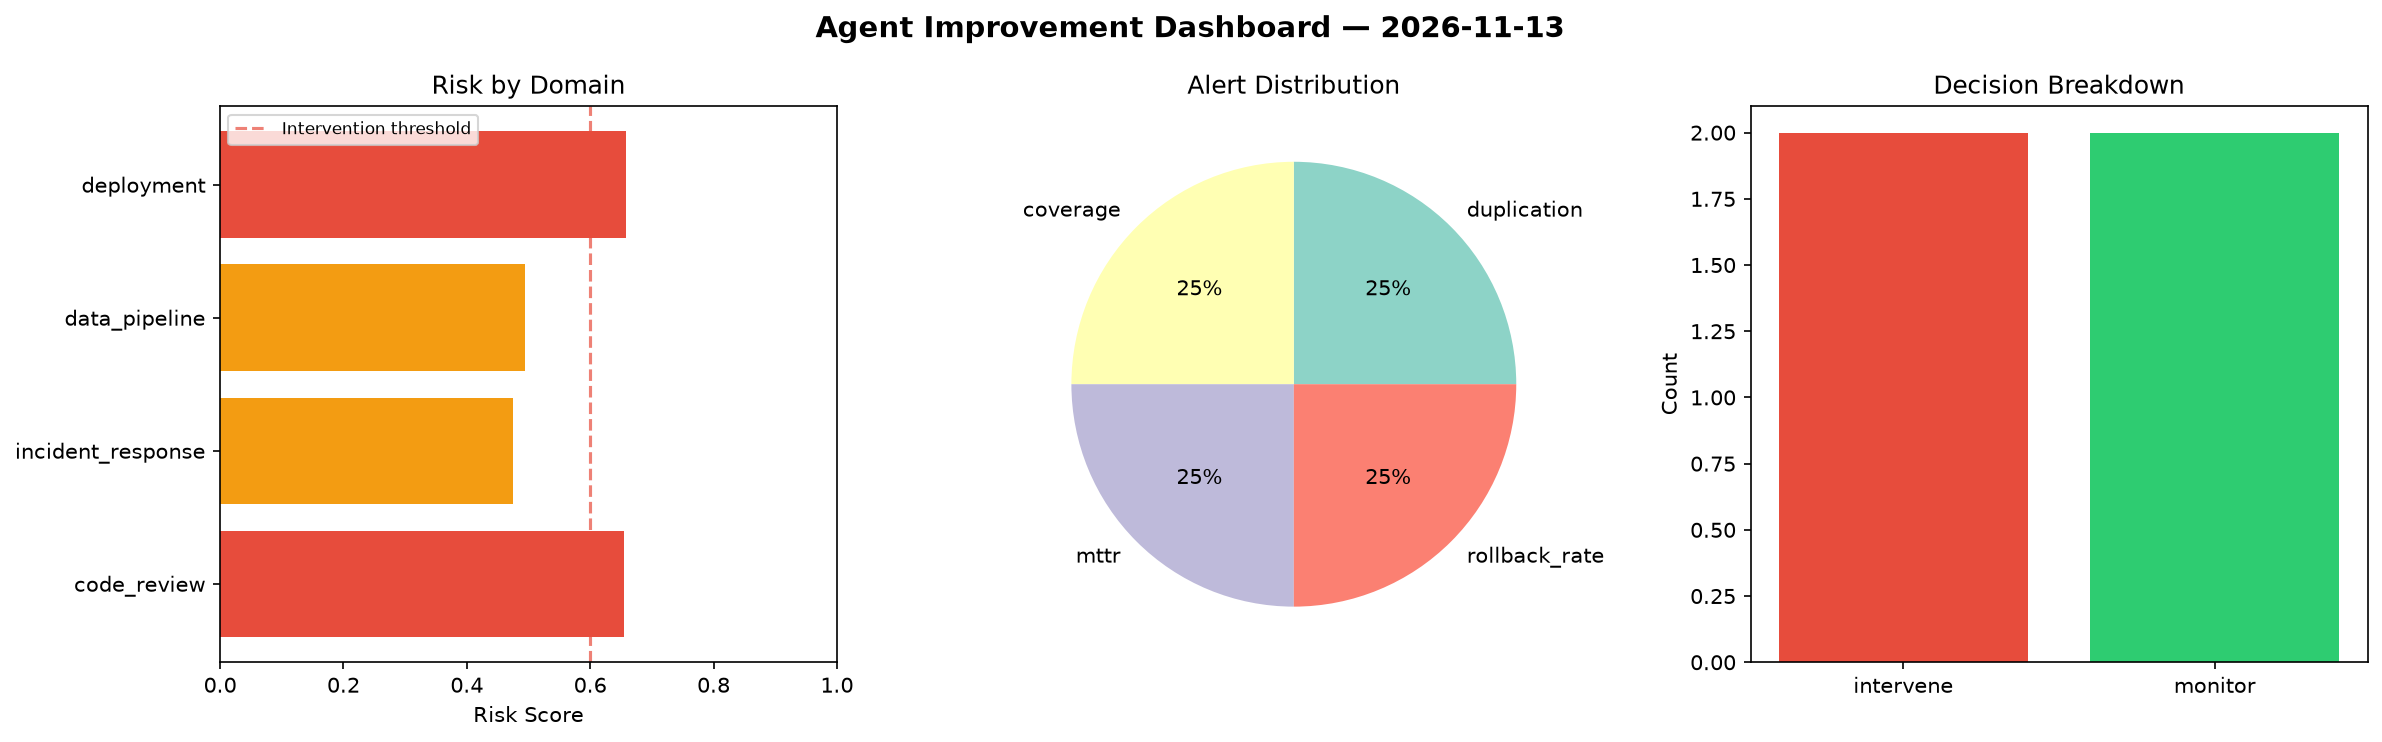
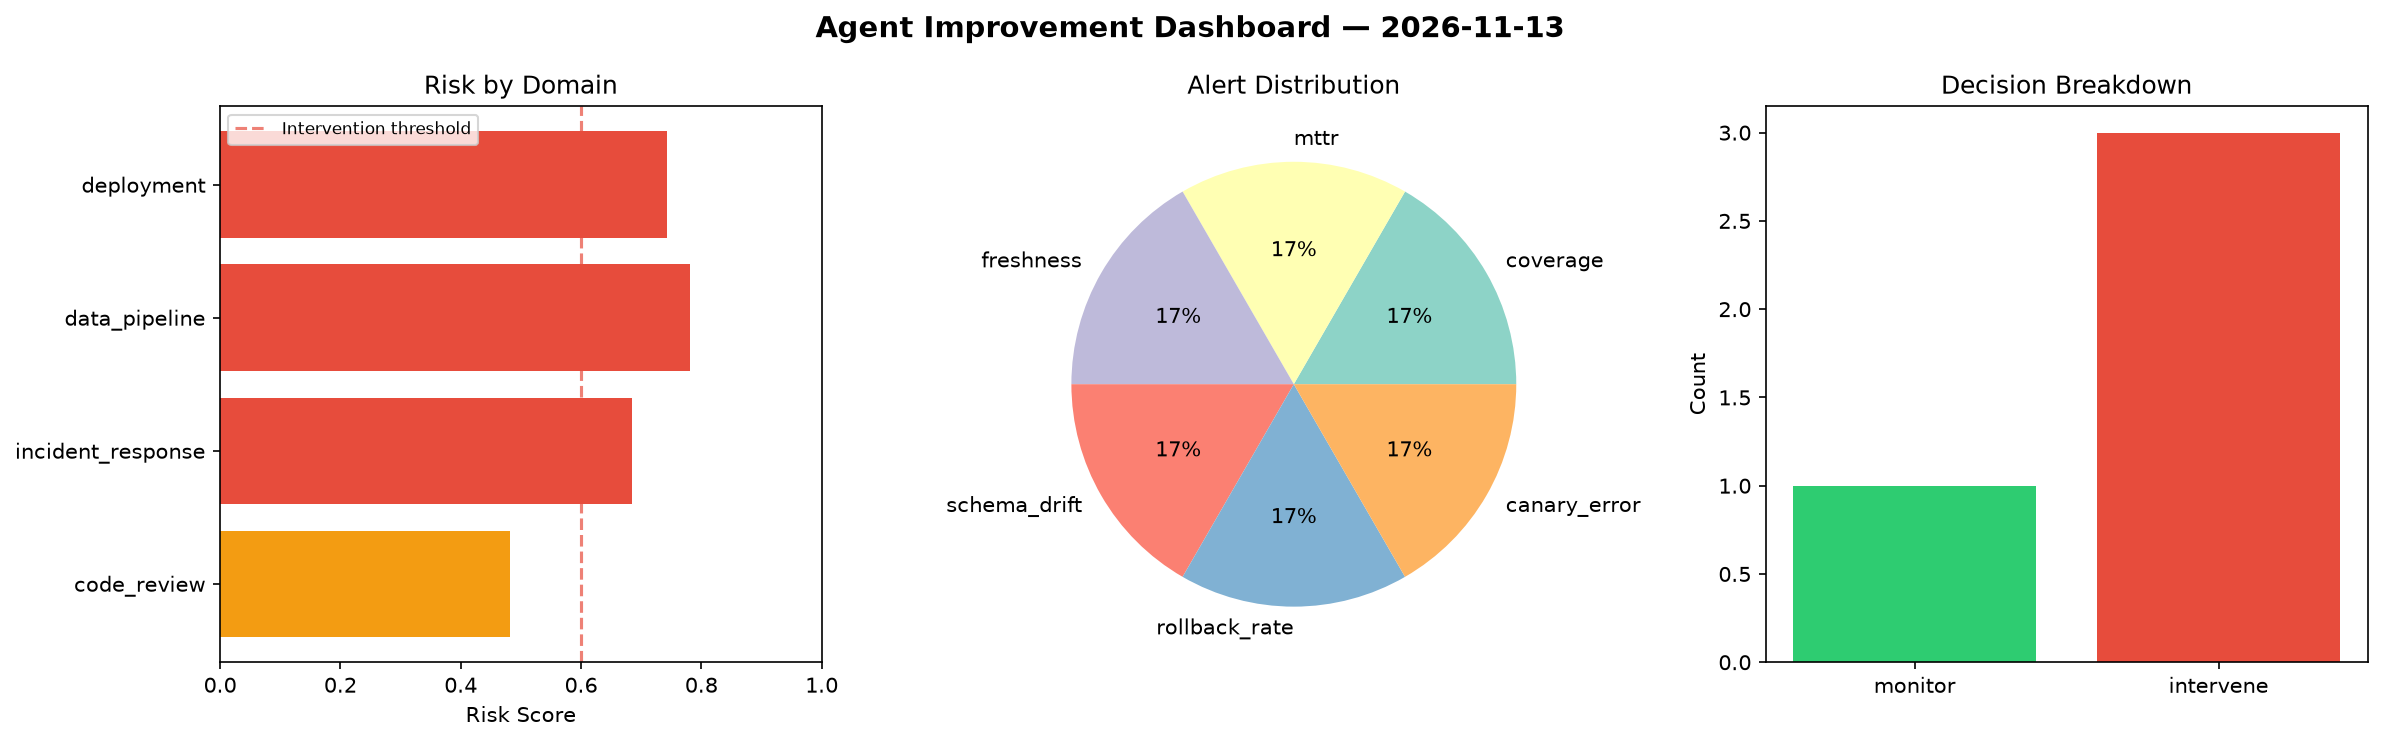
agent-improvement: daily cycle 2026-11-13T09:28

diff --git a/logs/2026-11-13.md b/logs/2026-11-13.md
@@ -1,6 +1,6 @@
 # Agent Improvement Report — 2026-11-13
 
-**Cycle ID:** `cd62efd1` | **Avg Risk:** 0.5705 | **Interventions:** 2/4
+**Cycle ID:** `93f7b544` | **Avg Risk:** 0.6722 | **Interventions:** 3/4
 
 ![Dashboard](2026-11-13_dashboard.png)
 
@@ -10,18 +10,18 @@
 
 | Domain | Risk Score | Decision | Alerts |
 |--------|-----------|----------|--------|
-| code_review | 0.6541 | intervene | duplication, coverage |
-| incident_response | 0.4756 | monitor | mttr |
-| data_pipeline | 0.4949 | monitor | none |
-| deployment | 0.6574 | intervene | rollback_rate |
+| code_review | 0.4816 | monitor | coverage |
+| incident_response | 0.6839 | intervene | mttr |
+| data_pipeline | 0.7804 | intervene | freshness, schema_drift |
+| deployment | 0.7429 | intervene | rollback_rate, canary_error |
 
 ## Delta vs Yesterday
 
 | Domain | Today | Yesterday | Change |
 |--------|-------|-----------|--------|
-| code_review | 0.6541 | 0.6493 | 📈 0.7% |
-| incident_response | 0.4756 | 0.5192 | 📉 -8.4% |
-| data_pipeline | 0.4949 | 0.6514 | 📉 -24.0% |
-| deployment | 0.6574 | 0.6886 | 📉 -4.5% |
+| code_review | 0.4816 | 0.6493 | 📉 -25.8% |
+| incident_response | 0.6839 | 0.5192 | 📈 31.7% |
+| data_pipeline | 0.7804 | 0.6514 | 📈 19.8% |
+| deployment | 0.7429 | 0.6886 | 📈 7.9% |
 
 **Refinement:** `{'adjustment': 'tighten_thresholds', 'trend': 'degrading', 'window': 4}`
